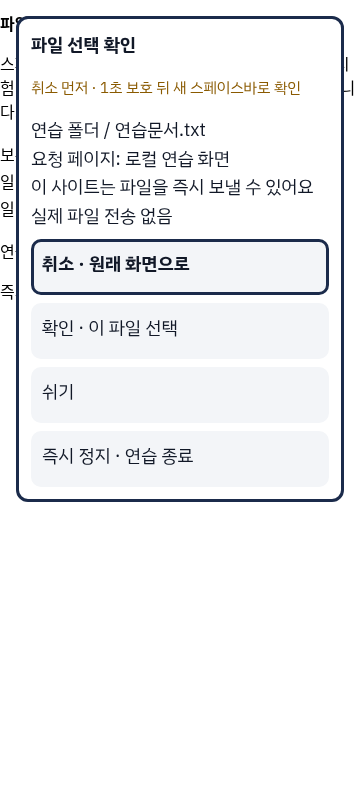
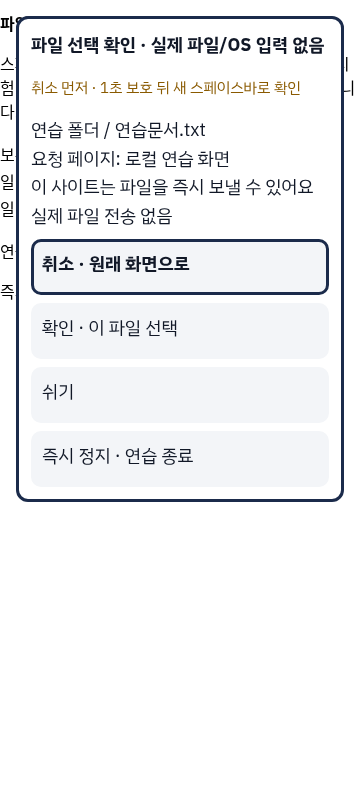
fix: discard stale file confirmations and latch dispatched requests

Changed region(s): [[0.4278, 0.0312, 0.9167, 0.0938]]

diff --git a/src/core/file-selection.ts b/src/core/file-selection.ts
@@ -23,23 +23,25 @@ export class FileSelection {
   private request: FileRequest | null = null;
   private selectedAt = 0;
   private revision = 0;
+  private dispatched = false;
+  private awaitingReply = false;
   private readonly usedRequests = new Set<string>();
   constructor(readonly provider: FileProvider) {}
 
   begin(request: FileRequest, now: number): boolean {
     const key = JSON.stringify([request.sessionId, request.requestId]);
-    if (!['idle', 'done', 'cancelled', 'unknown'].includes(this.state) || this.usedRequests.has(key) || now >= request.expiresAt) return false;
+    if (this.awaitingReply || !['idle', 'done', 'cancelled', 'unknown'].includes(this.state) || this.usedRequests.has(key) || now >= request.expiresAt) return false;
     this.usedRequests.add(key); this.request = { ...request }; this.selected = null;
-    this.revision++; this.state = 'selecting'; return true;
+    this.revision++; this.dispatched = false; this.state = 'selecting'; return true;
   }
   select(token: string, now: number): boolean {
-    if (this.state !== 'selecting') return false;
+    if (this.dispatched || this.state !== 'selecting') return false;
     const file = this.provider.files.find((item) => item.token === token);
     if (!file || !this.request || now >= this.request.expiresAt) return false;
     this.selected = { ...file }; this.selectedAt = now; this.state = 'confirming'; return true;
   }
   async confirm(context: FileRequest, now: number): Promise<'done' | 'refused' | 'unknown'> {
-    if (this.state !== 'confirming' || !this.selected || !this.request) return 'refused';
+    if (this.dispatched || this.state !== 'confirming' || !this.selected || !this.request) return 'refused';
     const current = this.request;
     if (now >= current.expiresAt || current.sessionId !== context.sessionId || current.requestId !== context.requestId
       || current.documentGeneration !== context.documentGeneration || current.modeGeneration !== context.modeGeneration) {
@@ -51,7 +53,7 @@ export class FileSelection {
       this.cancel(); return 'refused';
     }
     const revision = this.revision;
-    this.state = 'executing'; this.selected = null;
+    this.dispatched = true; this.awaitingReply = true; this.state = 'executing'; this.selected = null;
     let result: 'done' | 'refused' | 'unknown';
     let timer: ReturnType<typeof setTimeout> | undefined;
     try {
@@ -60,7 +62,7 @@ export class FileSelection {
         new Promise<'unknown'>((resolve) => { timer = setTimeout(() => { resolve('unknown'); }, 3000); }),
       ]);
     } catch { result = 'unknown'; }
-    finally { if (timer !== undefined) clearTimeout(timer); }
+    finally { this.awaitingReply = false; if (timer !== undefined) clearTimeout(timer); }
     if (revision !== this.revision) return 'unknown';
     this.state = result === 'refused' ? 'cancelled' : result; return result;
   }
@@ -71,6 +73,8 @@ export class FileSelection {
   private interrupt(next: 'cancelled' | 'paused' | 'stopped') {
     if (this.state === 'stopped') return;
     this.revision++; this.selected = null;
-    this.state = this.state === 'executing' && next !== 'stopped' ? 'unknown' : next;
+    if (next === 'stopped') this.state = 'stopped';
+    else if (this.dispatched) this.state = this.state === 'done' ? 'done' : 'unknown';
+    else this.state = next;
   }
 }

diff --git a/src/entrypoints/file-practice/main.ts b/src/entrypoints/file-practice/main.ts
@@ -34,7 +34,7 @@ function render() {
   if (stopped) return;
   const selected = flow.selected;
   const preview = selected ? `${selected.folder} / ${selected.name}\n요청 페이지: 로컬 연습 화면\n이 사이트는 파일을 즉시 보낼 수 있어요\n실제 파일 전송 없음` : flow.draft;
-  panel.render(engine, heading, preview, notice);
+  panel.render(engine, `${heading} · 실제 파일/OS 입력 없음`, preview, notice);
 }
 function show(items: SwitchItem[], mode: SwitchMode, title: string, status = '스페이스바로 선택') {
   engine = reduceSwitch(engine, { type: 'start', items, mode, now: performance.now() }).state;
@@ -55,7 +55,7 @@ function shutdown() {
   stopped = true; flow.stop(); clearInterval(timer); panel.destroy();
   document.querySelector('tremor-helper-root')?.remove();
   document.removeEventListener('keydown', key, true); document.removeEventListener('keyup', key, true);
-  window.removeEventListener('blur', rest);
+  window.removeEventListener('blur', rest); document.removeEventListener('focusin', focusChanged, true);
   output.setAttribute('data-stopped', 'true');
 }
 async function act(id: string) {
@@ -93,14 +93,23 @@ function send(event: SwitchEvent) {
   for (const action of result.actions) void act(action.itemId ?? '');
   render();
 }
+function editable(target: EventTarget | null) {
+  return target instanceof Element && target.closest('input,textarea,[contenteditable]:not([contenteditable=false])') !== null;
+}
+function focusChanged(event: FocusEvent) {
+  if (!stopped && (engine.pressed !== null || editable(event.target))) rest();
+}
 function key(event: KeyboardEvent) {
   if (stopped || event.code !== 'Space') return;
-  if (event.target instanceof HTMLInputElement || event.isComposing || event.altKey || event.ctrlKey || event.metaKey || event.shiftKey) return;
+  if (editable(event.target) || event.isComposing || event.altKey || event.ctrlKey || event.metaKey || event.shiftKey) {
+    if (engine.pressed !== null) rest();
+    return;
+  }
   event.preventDefault(); event.stopImmediatePropagation();
   send({ type: event.type === 'keydown' ? 'keyDown' : 'keyUp', code: event.code, repeat: event.repeat, trusted: event.isTrusted, isComposing: event.isComposing, now: performance.now() });
 }
 show(groups, 'groupScan', '연습 · 스페이스바 작업판', notice); engine.mode = 'ready'; render();
 const timer = setInterval(() => { send({ type: 'tick', now: performance.now() }); }, 50);
 document.addEventListener('keydown', key, true); document.addEventListener('keyup', key, true);
-window.addEventListener('blur', rest);
+window.addEventListener('blur', rest); document.addEventListener('focusin', focusChanged, true);
 document.querySelector('#stop')?.addEventListener('click', shutdown);

diff --git a/tests/unit/file-selection.test.ts b/tests/unit/file-selection.test.ts
@@ -74,3 +74,22 @@ it('reply deadline is unknown; a late result cannot complete or retry it', async
     expect(flow.state).toBe('unknown'); expect(applied).toEqual(['sample-text']);
   } finally { vi.useRealTimers(); }
 });
+
+it.each(['done', 'lost'] as const)('a dispatched %s request cannot replay through repeated pause/resume', async (result) => {
+  const provider = createPracticeFileProvider(result); const flow = new FileSelection(provider); const context = request();
+  flow.begin(context, 0); flow.select('sample-text', 0); await flow.confirm(context, 1500);
+  flow.pause(); flow.pause(); flow.resume();
+  expect(flow.select('sample-text', 2000)).toBe(false);
+  expect(await flow.confirm(context, 3500)).toBe('refused'); expect(provider.applied).toEqual(['sample-text']);
+  expect(flow.begin({ ...context, requestId: 'r2' }, 4000)).toBe(true);
+});
+it('an interrupted pending dispatch blocks a second request and cannot replay', async () => {
+  let release: (() => void) | undefined; const applied: string[] = [];
+  const flow = new FileSelection({ files: createPracticeFileProvider().files, apply: (token) => { applied.push(token); return new Promise<'done'>((resolve) => { release = () => { resolve('done'); }; }); } });
+  const context = request(); flow.begin(context, 0); flow.select('sample-text', 0); const pending = flow.confirm(context, 1500);
+  flow.pause(); flow.pause(); flow.resume();
+  expect(flow.select('sample-text', 2000)).toBe(false);
+  expect(flow.begin({ ...context, requestId: 'r2' }, 2000)).toBe(false);
+  release?.(); expect(await pending).toBe('unknown'); expect(applied).toEqual(['sample-text']);
+  expect(flow.begin({ ...context, requestId: 'r2' }, 3000)).toBe(true);
+});

diff --git a/tests/e2e/file-practice.e2e.ts b/tests/e2e/file-practice.e2e.ts
@@ -70,3 +70,20 @@ for (const width of [360, 768, 1280]) {
     await expect(panel).toHaveAttribute('data-mode', 'ready');
   });
 }
+
+test('moving focus during held confirmation discards the press and approval', async ({ context, extensionId }) => {
+  const page = await context.newPage(); await page.goto(`chrome-extension://${extensionId}/file-practice.html`);
+  const panel = page.locator('tremor-helper-root').locator('.switch-panel');
+  await page.keyboard.press('Space'); await page.waitForTimeout(350);
+  await choosePractice(page, '연습 파일 선택'); await choosePractice(page, '연습문서.txt');
+  await expect.poll(async () => panel.locator('.switch-choice[aria-current="true"]').textContent(), { timeout: 20000 }).toBe('확인 · 이 파일 선택');
+  await page.keyboard.down('Space');
+  await page.getByRole('textbox', { name: '일반 입력' }).focus(); await page.keyboard.up('Space');
+  await expect(panel).toHaveAttribute('data-mode', 'paused');
+  await page.getByRole('button', { name: '일반 버튼' }).focus(); await page.keyboard.up('Space');
+  await expect(page.locator('output')).toHaveText('선택 없음');
+  await page.keyboard.press('Space'); await expect(panel).toHaveAttribute('data-mode', 'itemScan'); await page.waitForTimeout(350);
+  await expect(panel.locator('.switch-draft')).toHaveCount(0);
+  await choosePractice(page, '연습문서.txt'); await choosePractice(page, '확인 · 이 파일 선택');
+  await expect(page.locator('output')).toHaveText('연습문서.txt');
+});

diff --git a/docs/WORK-STATUS.md b/docs/WORK-STATUS.md
@@ -2,21 +2,26 @@
 
 갱신: 2026-10-01 23:56 KST · [draft PR #15](https://github.com/rrangjaa-eng/project_260923/pull/15) · 전달 로컬 `codex/installed-page-investigation` / 원격 PR 작업 브랜치 `codex-single-switch-phase1`
 
-## 남은 개발 재개 — 2026-10-02 00:48 KST
+## 남은 개발 재개 — 2026-10-02 00:56 KST
 
-작업명: `PR 미생성 | 파일 선택 연습·안전 계약`. 기존 세션 재사용, 새 로컬 브랜치 `codex/phase2-file-practice`; 검증된 PR15/20440e6·ZIP 보존. 부모는 CI67/run36880332412 최종success와 PR15본문 갱신을 직접 확인했다. 최신 “나머지 계속 진행해” 승인으로 PC 검증을 클라우드 개발의 대기조건으로 삼지 않는다.
+작업명: `PR 미생성 | 파일 선택 연습·안전 계약`. 기존 세션 재사용, 로컬 `codex/phase2-file-practice`, 원격 `codex-phase2-file-practice`; PR15/20440e6·설치ZIP은 보존. 부모가 CI67/run36880332412 최종success와 PR15본문 갱신을 직접 확인했다. 최신 남은 개발 진행 승인으로 PC 시험을 클라우드 개발의 대기조건으로 삼지 않는다.
 
 | 이번 진행 | 실제 결과 | 다음 작업 |
 |---|---|---|
-| 기존 계획 대조 | 8단계 핵심/선택/초점/초안/탭/종료 구현 완료. 체크박스와 오래된 계획 수치를 새 미구현으로 해석하지 않음 | 실제 PC TEST/DIST·문구관리전체/최근값/양식전체·실제OS/USB/반복업무는 남음 |
-| 보류 f21a215 회귀 복원 | 현재 기준에서 실제 worker stop1/1 pass,22초 | 회귀·기존2차 설계만 선택 복원; PR13/14 코드 복사 없음 |
-| 파일 선택 조정기 | 고정 가짜 provider·세션/요청/문서/모드/만료·확인1초·정지·응답유실/timeout. 초기RED5fail/7pass→12pass; timeout추가RED1fail/12pass→13pass. 전체단위161/161 pass | 독립 리뷰의 동일 요청 재실행 P2를 RED로 보강·수정해야 함 |
-| 별도 확장 연습 화면 | Space 그룹/선택/확인/복귀/정지/일반키2/2 pass32.5초, viewport360/768/1280 DOM·hold3/3 pass19초 | 내부input포커스 이동 후 orphanup P2 수정. 좁은 화면에서 항상 시제품표시를 보이게 하는 신규assertion RED1fail 확인 |
-| type/lint/build | 최종 type/lint exit0·production build pass. 단위161pass | 기존UI100 `ui-review` 실행중, 결과는 /workspace/.cloud-onboarding/ui-review-runs/run-bTzDDs. 새 draftPR/완료 판단은 후속 수정·검증 뒤 |
+| 기존 계획 대조 | 8단계 핵심/선택/초점/초안/탭/종료 구현 완료. 오래된 미체크박스를 중복 구현하지 않음 | 실제PC TEST/DIST, 문구관리·최근값·양식전체, 실제OS/USB, 반복업무는 남음 |
+| 보류 회귀 | f21a215의 실제 worker stop만 복원, 최신제품 기준1/1 pass22초 | PR13/14 복사·병합 없음 |
+| 파일 선택 안전 | 고정 가짜provider·토큰/요청/세션/문서·모드/만료/확인1초/정지latch/3초응답유실unknown. 최종 전용16/16·전체164/164 pass | 실제 파일/API 전송은 구현하지 않음 |
+| 독립 리뷰 P2 수정 | 동일요청 pause반복 재실행 RED3 fail/13 pass→16pass. 전송latch와 응답대기중 새요청 차단. 내부input초점 변경+orphanup UI RED1fail→GREEN1pass16.3초 | 리뷰2건 수정. 정상 새요청·초안 보존 유지 |
+| 연습UI/DOM | 선택·확인·취소·복귀·쉬기·종료/키복구·3viewport 관련5pass; 수정된 초점회귀별도1pass. 좁은화면 지속표시 RED1fail→3viewport GREEN | 화면3장 갱신. 실제OS 실행으로 표시하지 않음 |
+| 기존 자동 화면 검토 | 기존 실행40492 회수: **101/101 pass**,0fail/skip/flaky,3.4분,exit0 | 수정 전 실행이며 새6건과 구분. 공통엔진/패널/기존popup 불변. 중복100검사 없음 |
+| 최종 type/lint/build | exit0·production build pass. 기존ZIP 대비permissions/host/content_scripts 동일 | 새권한/설치/OS/네트워크/260917접근 없음 |
+| 전체검증/새PR | draftPR 생성·최종HEAD의 전체CI 확인을 진행한다 | PR15 대상으로 별도 stacked PR. merge/release/deploy 없음 |
 
-### 실행 환경 사실 확인 (긴급 보고)
+[최종 수정·검증 기록](verification/2026-10-02-file-practice.md). 완료된 1차를 새로 만들지 않았고 `.planning` human_needed를 임의로 통과시키지 않았다. 현재 기록의 미확정 전체CI는 최종수치 확인 뒤 보완한다.
 
-런타임 사용자 environment_context에 선택 환경ID `ccarenv_b64_Y2NhcmVudl8yOTg2ZTBlYzEzMTg4MTkxYTM4N2QwZGI1YzdiZmY2Zg`가 직접 제공됐고 wait_for_environment가 ready를 반환했다. 00:36:43 KST의 읽기전용 Python 명령은 실제 성공했으며 Linux6.18.44/x86_64, cwd=/workspace/project_260923, PID1=tail, /.dockerenv=False였다. exec_command 스키마/응답에는 독립 환경ID/호스트유형/PC연결 식별자가 없다. OS/경로만으로 호스트를 확정하지 않는다. 부모 조회의 rangja offline/attached false/authorized false는 부모가 확인한 근거이며 이 명령으로 다시 조회한 값은 아니다. PC로 전환/연결·자격증명·설정 변경·260917 접근 없음. 현재 제품코드는 실제파일/OS접근·외부전송·새권한0인 연습 기능이며 리뷰P2가 남아 출시물로 전달하지 않는다.
+환경 긴급 보고는 613bbe9에 보존했다. 선택ID와 ready는 런타임 확인, 명령은 Linux6.18.44/x86_64에서 성공, exec도구 응답에는 독립호스트유형·PC연결식별자가 없다. 확인을 반복하거나 PC로 전환하지 않았다.
+
+다음 승인된 클라우드 항목은 가짜provider 경계의 문서/모드/세션 변경 및 결과불명 테스트벡터와 입력소유권 복귀를 확대하는 것이다. 실제 파일 연결, nativeMessaging 권한·Windows host등록·USB접근·웹스토어게시/배포는 승인 필요 항목으로 분리한다. 반복업무 자동화는 현 파일 흐름의 실제연결 이후 설계 순서를 유지한다.
 
 ## 설치본 신고 대응 — 현재 우선 작업
 

diff --git a/docs/verification/2026-10-02-file-practice.md b/docs/verification/2026-10-02-file-practice.md
@@ -1,0 +1,32 @@
+# 파일 선택 연습: 수정·검증 기록
+
+2026-10-02 00:56 KST · 기준PR15/20440e6 · codex/phase2-file-practice. 실제 OS/파일 연결·권한·외부전송은 없다. 고정 가짜provider와 독립 확장 file-practice.html만 구현했다. 기존 Space 엔진·패널·디자인 토큰을 재사용한다.
+
+## 실제 재현과 수정
+
+- 보류 f21a215의 actual worker stop 회귀를 최신제품에 복원: 1/1pass22초. 제품을 다시 구현하지 않았다.
+- 조정기 최초 RED5fail/7pass→12pass. 요청없는 확인·1초내 확인·임의토큰·문서/모드/세션/요청세대변경·만료·취소/쉬기/정지·늦은응답을 검사한다.
+- 응답없는 provider deadline: RED1fail/12pass(executing 잔류)→13pass. 3초 뒤unknown·재시도0·late성공상태변경0.
+- 독립리뷰 P2: done/lost/전송중 요청에서 pause반복→resume→선택으로 같은 요청재실행. RED3fail/13pass→16pass. dispatched latch, awaitingReply 경계, 새request ID의 명시begin만 허용.
+- 독립리뷰 P2: 실제Space down→inputfocus→keyup 뒤confirming 잔류. UIRED1fail→GREEN1pass16.3초. focusin 및 입력/조합/수정키 전환에서 rest가 pressed와 승인 모두 폐기. orphanup실행0·재개입력선택0·새명시선택후완료1.
+- 좁은화면: global제목이 overlay뒤에 놓일수있어 panel h2에 지속 시제품표시 assertion을 추가. RED1fail→3viewportGREEN. 제목에는 실제 파일/OS 입력 없음, confirmation preview에도 실제전송없음을 표시.
+
+## 검사와 근거
+
+| 검사 | 결과 |
+|---|---|
+| `pnpm test:unit` | 24파일164/164pass,exit0 |
+| `pnpm typecheck`, `pnpm lint` | 최종exit0 |
+| production E2E `file-practice.e2e.ts` | 관련5pass + 초점회귀최종별도1pass. 선택·취소·쉬기·확인·종료·일반키·360/768/1280·hold 포함 |
+| `ui-review` 기존40492/run-bTzDDs | 101/101pass,fail/skip/flaky0,3.4분,exit0. P2수정전의 기존화면영향실행이며 새화면6건을 대신하지 않음 |
+| production build | E2E setup에서exit0 |
+| 이전ZIP manifest 비교 | permissions/host_permissions/content_scripts 그대로 |
+| 전체CI | 새draftPR의 최종HEAD에서 확인예정; 미확정 |
+
+로그: /tmp/phase2-review-{latch-red,latch-green,focus-red,focus-green,ui-green}.log, /tmp/phase2-scope-label-red.log, /tmp/phase2-final-{type,lint,all-unit}.log. 원본UI101 결과는 /workspace/.cloud-onboarding/ui-review-runs/run-bTzDDs/results.json. 지속근거는 Git의 회귀/설계/이문서와 화면3장이다.
+
+[360px](file-practice-360.png) · [768px](file-practice-768.png) · [1280px](file-practice-1280.png). DOM 검사에서각56px 이상·글자18px 이상·화면경계내·취소먼저·상태가시성을 확인했다. screenshot은 보조자료다. 실제Windows IME·손사용감·파일창·파일선택/업로드·두산사이트·모든앱 전역정지는 미검증/미구현이다.
+
+## 다음 경계
+
+cloud에서 독립 실행상태/문서·모드·세션변경의 negative protocol vectors는 현재승인범위다. 실제 파일의브라우저전달은 즉시업로드될수있으므로 파일대화상자/요청창소유권·확인후재검증·nativeMessaging 권한/host등록을 별도 승인/Windows검증해야 한다. 현재 연습은 이를 완료했다고 표시하지 않는다. PR13/14코드를복사·실행하지 않았다. 기존PR15와ZIP을교체하지 않았고merge/deploy/release없다.

diff --git a/docs/superpowers/plans/2026-10-02-file-practice.md b/docs/superpowers/plans/2026-10-02-file-practice.md
@@ -12,3 +12,11 @@
 진행: 1 완료1/1; 2 구현·단위13/13/전체161pass이나 독립P2 미해결; 3 기본UI2/2 및DOM3/3pass이나 focus P2/지속시제품표시RED 남음; 4 UI100실행중·최종리뷰진행중. 제품원본/8단계/로드맵 재작성 없음. 실제PC IME·운동시험, DIST 게시, Windows/nativeMessaging·USB·실제파일 연결은 별도 미완료다.
 
 00:48 안전 체크포인트: 부모의 긴급 환경 확인 보고 때문에 현재 작업을 Git에 보존한다. core 동일요청 pause반복 뒤 재실행, 화면 내부 input포커스 이동의 pressed잔류 두 독립P2는 다음 RED→GREEN 대상이다. 새기능 완료/출시/새PR통과로 표시하지 않는다. 현재 대기UI100을 중복 실행하지 않는다.
+
+## 00:56 수정 완료 기록
+
+작업1 완료1/1; 작업2 전용16/16·전체164/164 pass; 작업3 기본·DOM5건 및초점별도1건pass. 작업4 기존ui-review101/101 결과 회수·type/lint/buildpass, 새draftPR 전체CI확인 진행.
+
+독립P2 두건은 각각 실제RED 뒤 최소수정했다. 전송한 요청의 latch를 새요청begin에서만 초기화하며, pause/resume은 전송된 요청을 재선택하지 못한다. 응답대기중 새요청도 거절한다. 내부focusin/IME·수정키로 입력소유권이 바뀌면 눌림·선택승인을 취소한다. 창 내부 이동 뒤 orphanup은 실행0이며 재개Space는 재개만 하고 새선택이 필요하다. 좁은화면 persistent 시제품표시도 신규assertion RED→GREEN. 기존100계열은101건으로 늘어난실제결과를 기록했고 중복실행하지 않았다.
+
+판단: 초점회귀의 빈초안은 DOM preview가 없는 것이 정상이라 부재요소의 not.toContainText 대신 count0으로 검사한다. 초안이 있는 기존쉬기검사는 텍스트보존assertion을 유지한다. 300ms 보호를 해제하지 않고 드라이버가 새입력 간격을 기다린다. 실제 OS·파일/PC 검증은 확대하지 않는다.
